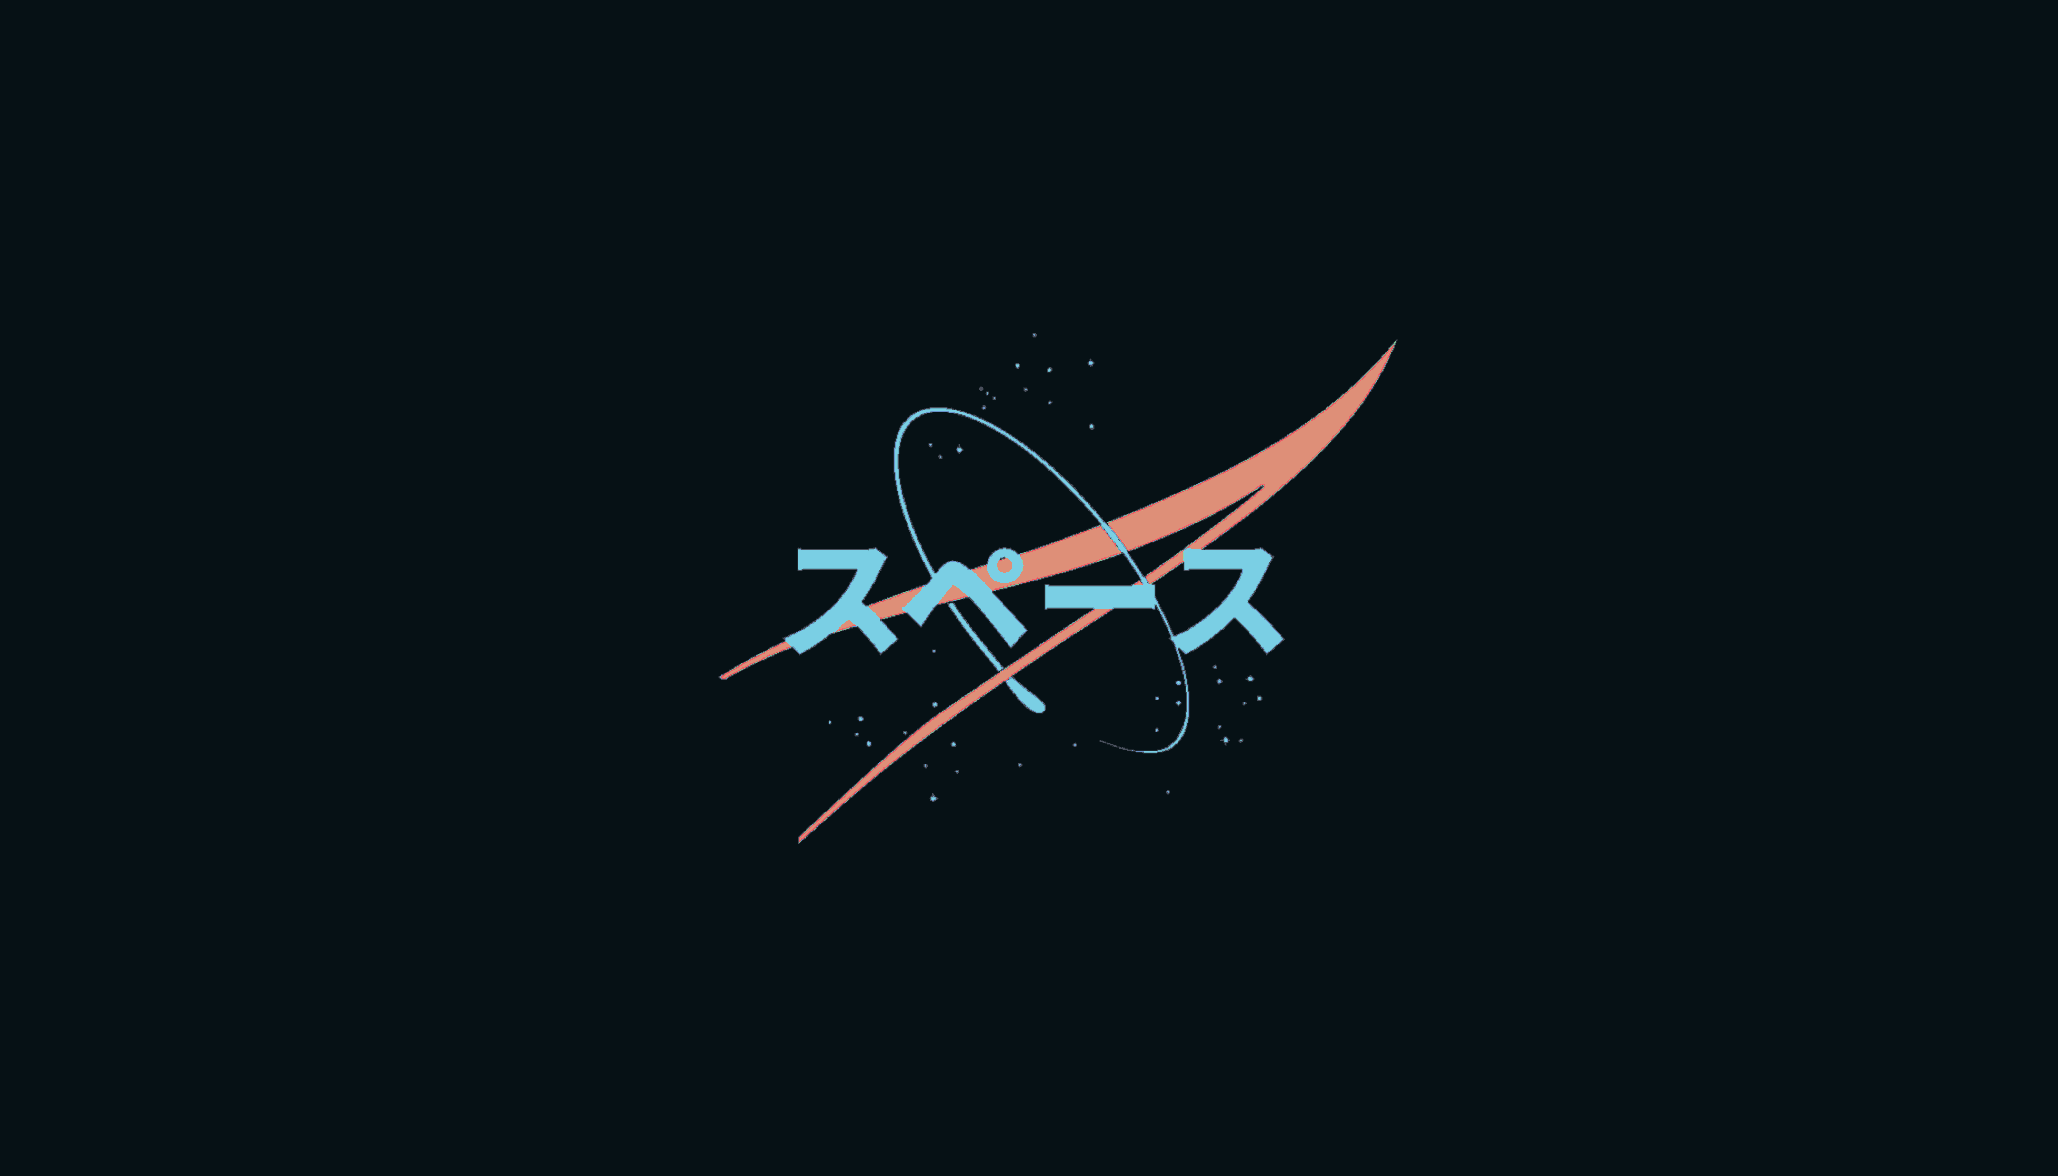
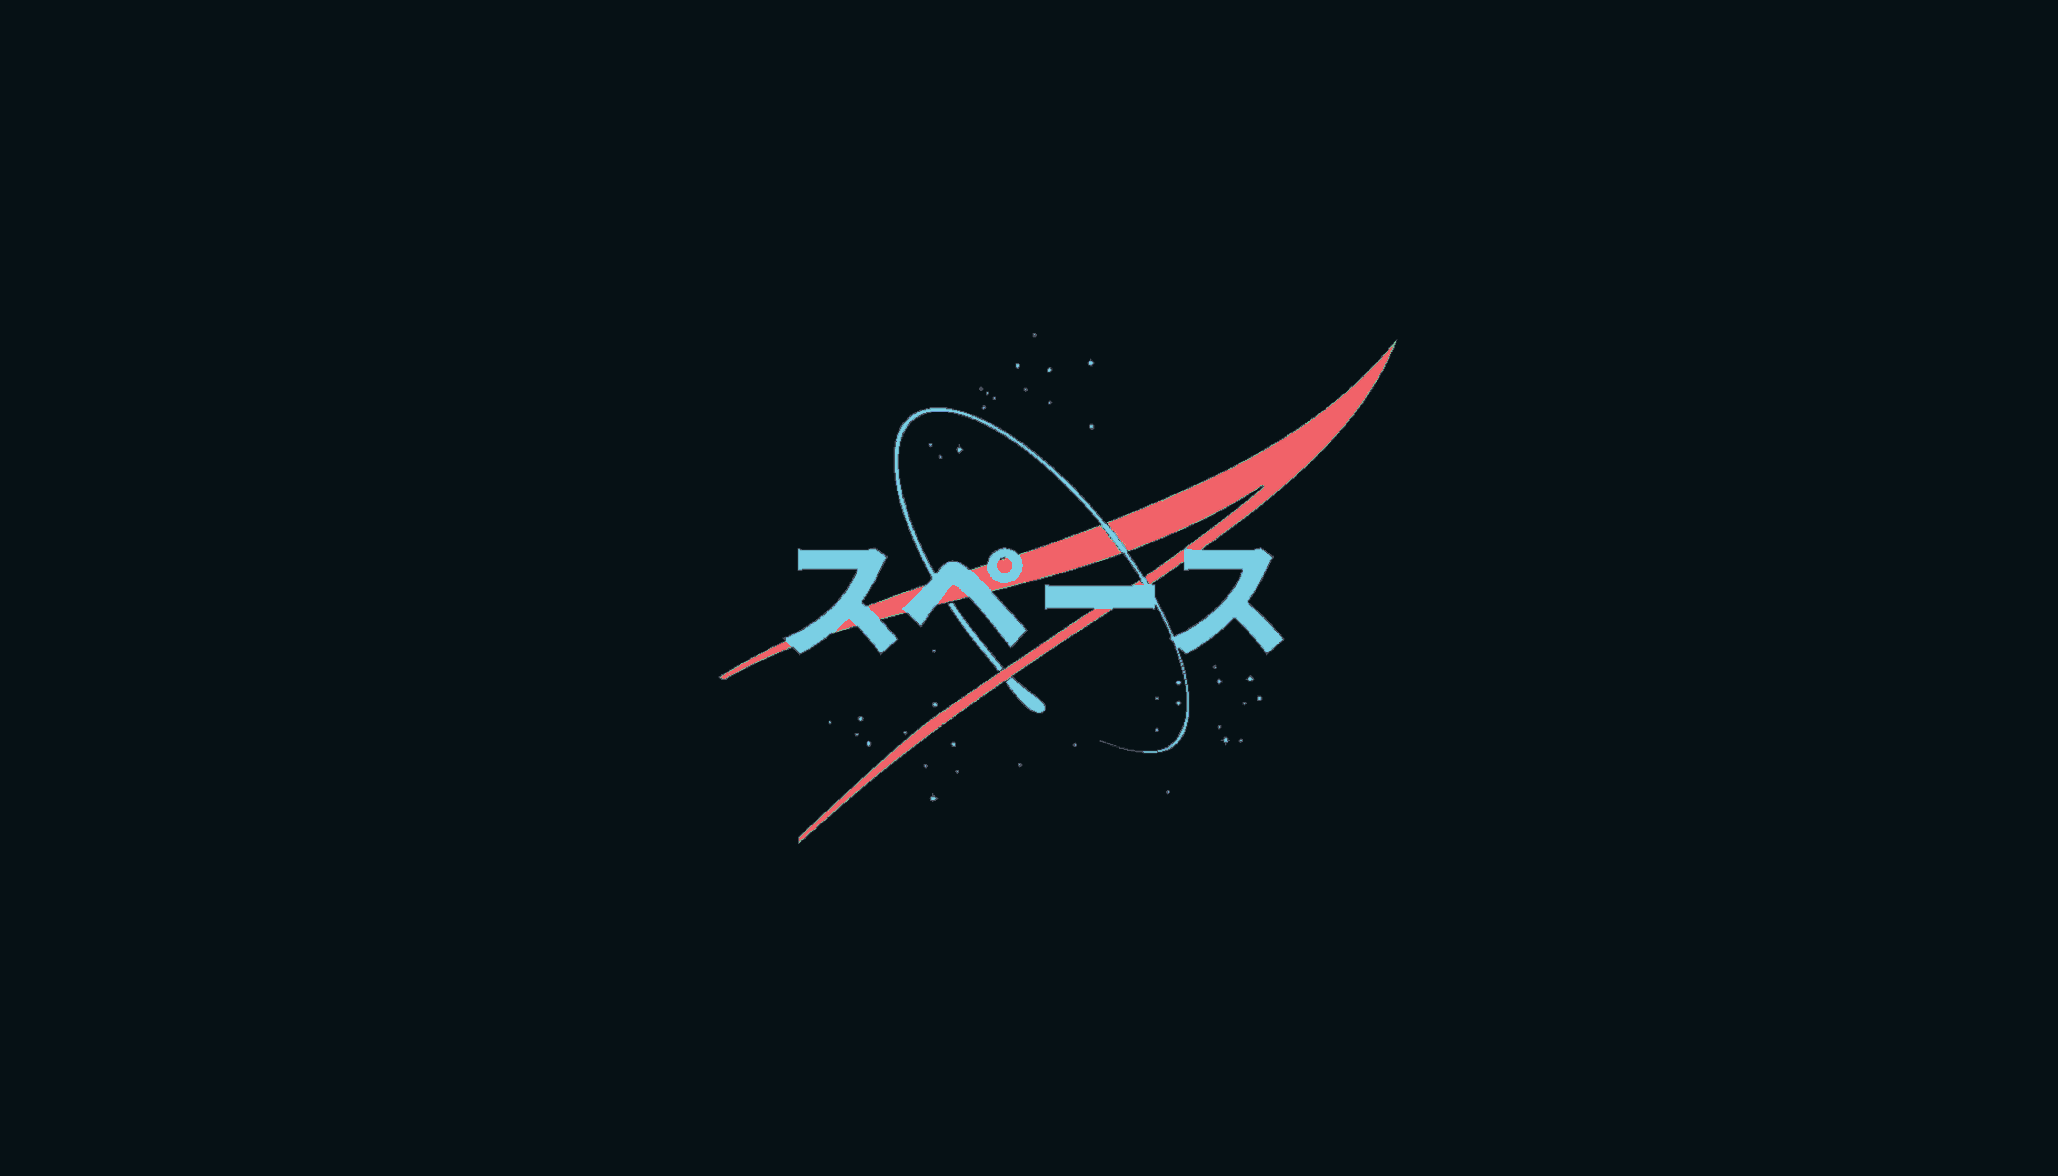
Apply gamma linearization

diff --git a/src/main.rs b/src/main.rs
@@ -80,9 +80,17 @@ fn euclidean_distance(color1: (u8, u8, u8), color2: (u8, u8, u8)) -> f32 {
 
 fn rgb_to_xyz((r, g, b): (u8, u8, u8)) -> (f32, f32, f32) {
     // from: https://www.image-engineering.de/library/technotes/958-how-to-convert-between-srgb-and-ciexyz
-    let sr = r as f32 / 255.0;
-    let sg = g as f32 / 255.0;
-    let sb = b as f32 / 255.0;
+    let gamma = |v: f32| {
+        if v < 0.04045 {
+            v / 12.92
+        } else {
+            ((v + 0.055) / 1.055).powf(2.4)
+        }
+    };
+
+    let sr = gamma(r as f32 / 255.0);
+    let sg = gamma(g as f32 / 255.0);
+    let sb = gamma(b as f32 / 255.0);
 
     let x = (0.4124564 * sr) + (0.3575761 * sg) + (0.1804375 * sb);
     let y = (0.2126729 * sr) + (0.7151522 * sg) + (0.0721750 * sb);
